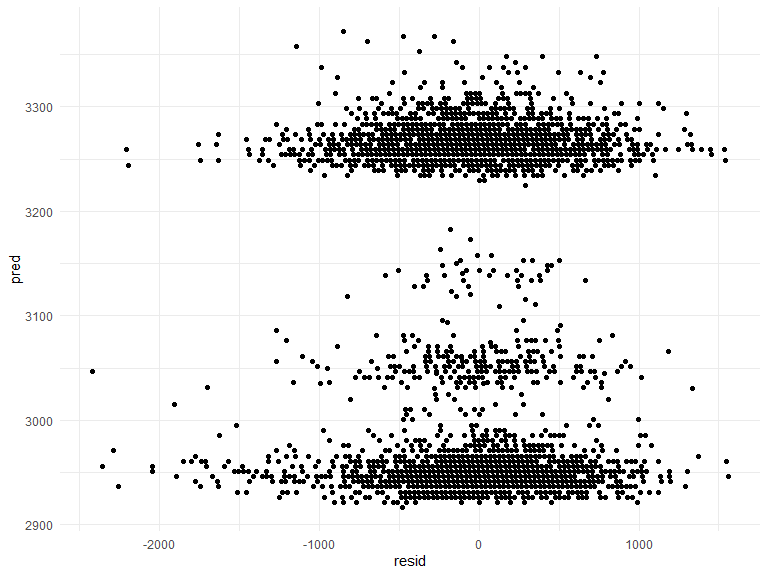
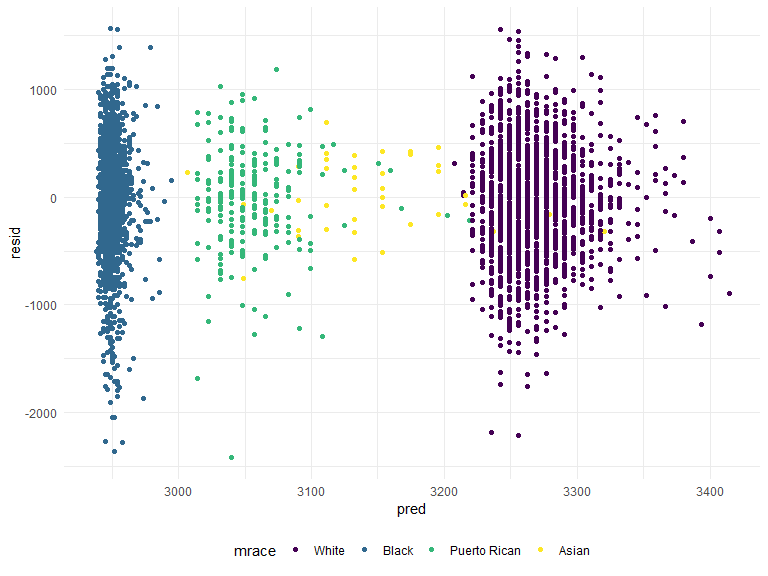
Compare my model with the two purposed models using cross validation and plot the prediction error distribution for each models.

diff --git a/p8105_hw6_yx2711.md b/p8105_hw6_yx2711.md
@@ -280,40 +280,89 @@ Load the data and create the dataframe `birthweight`.
 birthweight = read.csv("data/birthweight.csv") %>% 
   janitor::clean_names() %>% 
   mutate(
-    babysex = as.factor(babysex),
-    frace = as.factor(frace),
-    malform = as.factor(malform),
-    mrace = as.factor(mrace)
+    babysex = recode_factor(babysex, `1` = "male", `2` = "female"),
+    frace = recode_factor(frace, `1` = "White", `2` = "Black", `3` = "Asian", `4` = "Puerto Rican", `8` = "Other", `9` = "Unknown"),
+    malform = recode_factor(malform, `0` = "absent", `1` = "present"),
+    mrace = recode_factor(mrace, `1` = "White", `2` = "Black", `3` = "Asian", `4` = "Puerto Rican", `8` = "Other")
   ) %>% 
-  mutate_if(is.factor, fct_infreq)
+  mutate_if(is.factor, fct_infreq) %>% 
+  drop_na()
 ```
 
-Fit a model with birthweight as the outcome and mother’s age at delivery
-and mother’s race as the predictors.
+I would like to assess whether mother’s age at delivery and mother’s
+race would affect the baby’s birthweight and whether the effect of
+mother’s age on baby’s birthweight would be different on different level
+of mother’s race. Fit a model with birthweight as the outcome and
+mother’s age at delivery, mother’s race, and their interaction as the
+predictors.
 
 ``` r
-fit_magerace = lm(bwt ~ momage + mrace, data = birthweight)
-
+mymodel = lm(bwt ~ momage + mrace + momage * mrace, data = birthweight)
 
 birthweight %>% 
-  add_residuals(fit_magerace) %>% 
-  add_predictions(fit_magerace) %>%  
-  ggplot(aes(x = resid, y = pred)) +
+  add_residuals(mymodel) %>% 
+  add_predictions(mymodel) %>%  
+  ggplot(aes(x = pred, y = resid, color = mrace)) +
   geom_point()
 ```
 
 <img src="p8105_hw6_yx2711_files/figure-gfm/unnamed-chunk-9-1.png" width="90%" />
 
-Fit models: \* using length at birth and gestational age as predictors
-\* using head circumference, length, sex and all interactions as
+Fit models: 1) using length at birth and gestational age as predictors
+2) using head circumference, length, sex and all interactions as
 predictors
 
 ``` r
-fit_lengthage = birthweight %>% 
+model1 = birthweight %>% 
   lm(bwt ~ blength + gaweeks, data = .) %>% 
   broom::tidy()
 
-fit_3way = birthweight %>% 
+model2 = birthweight %>% 
   lm(bwt ~ bhead + blength + babysex + bhead * blength + bhead * babysex + blength * babysex + bhead * blength * babysex, data = .) %>% 
   broom::tidy()
 ```
+
+Compare my model with the two purposed models using `crossv_mc`. Use
+`mutate`+`map` & `map2` to fit models to training data and obtain
+corresponding RMSEs for the testing data.
+
+``` r
+cv_df =
+  crossv_mc(birthweight, 100) %>% 
+  mutate(
+    train = map(train, as_tibble),
+    test = map(test, as_tibble))
+
+cv_df = 
+  cv_df %>% 
+  mutate(
+    mymodel  = map(train, ~lm(bwt ~ momage + mrace + momage * mrace, data = .x)),
+    model1   = map(train, ~lm(bwt ~ blength + gaweeks, data = .x)),
+    model2   = map(train, ~lm(bwt ~ bhead + blength + babysex + bhead * blength + bhead * babysex + blength * babysex + bhead * blength * babysex, data = .x))) %>% 
+  mutate(
+    rmse_mymodel = map2_dbl(mymodel, test, ~rmse(model = .x, data = .y)),
+    rmse_model1    = map2_dbl(model1, test, ~rmse(model = .x, data = .y)),
+    rmse_model2 = map2_dbl(model2, test, ~rmse(model = .x, data = .y)))
+```
+
+PLot the predicton error distribution for each models.
+
+``` r
+cv_df %>% 
+  select(starts_with("rmse")) %>% 
+  pivot_longer(
+    everything(),
+    names_to = "model", 
+    values_to = "rmse",
+    names_prefix = "rmse_") %>% 
+  mutate(model = fct_inorder(model)) %>% 
+  ggplot(aes(x = model, y = rmse)) + geom_violin()
+```
+
+<img src="p8105_hw6_yx2711_files/figure-gfm/unnamed-chunk-12-1.png" width="90%" />
+
+Since lower values of RMSE indicate better fit, the plot suggests that
+model 2, which uses head circumference, length, sex, and all
+interactions as the predictors, has the better fit. My model which uses
+mother’s age at delivery and mother’s race as the predictors has the
+worst fit.
